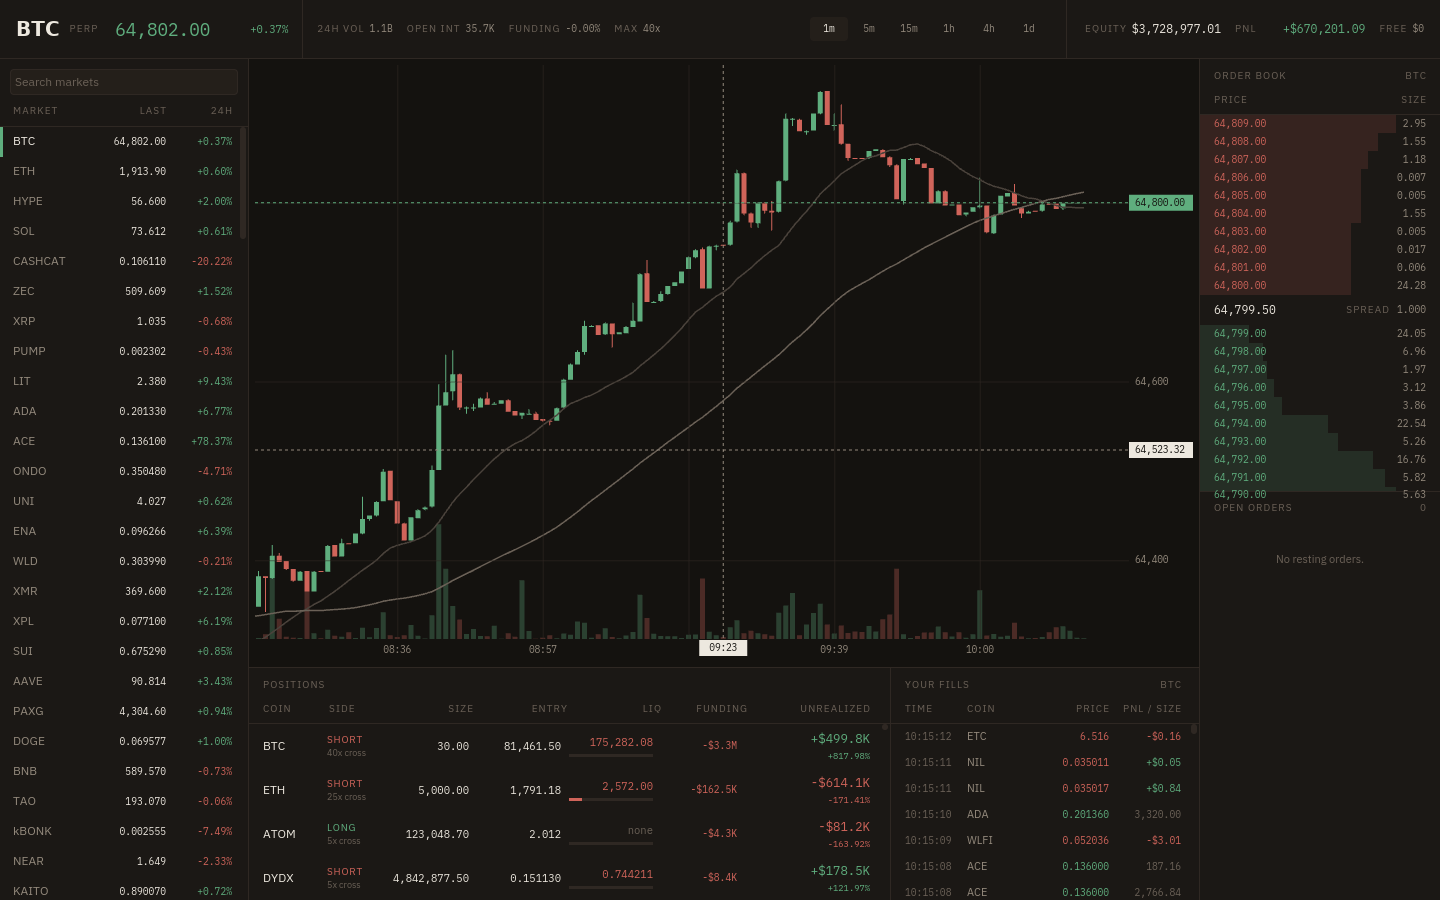
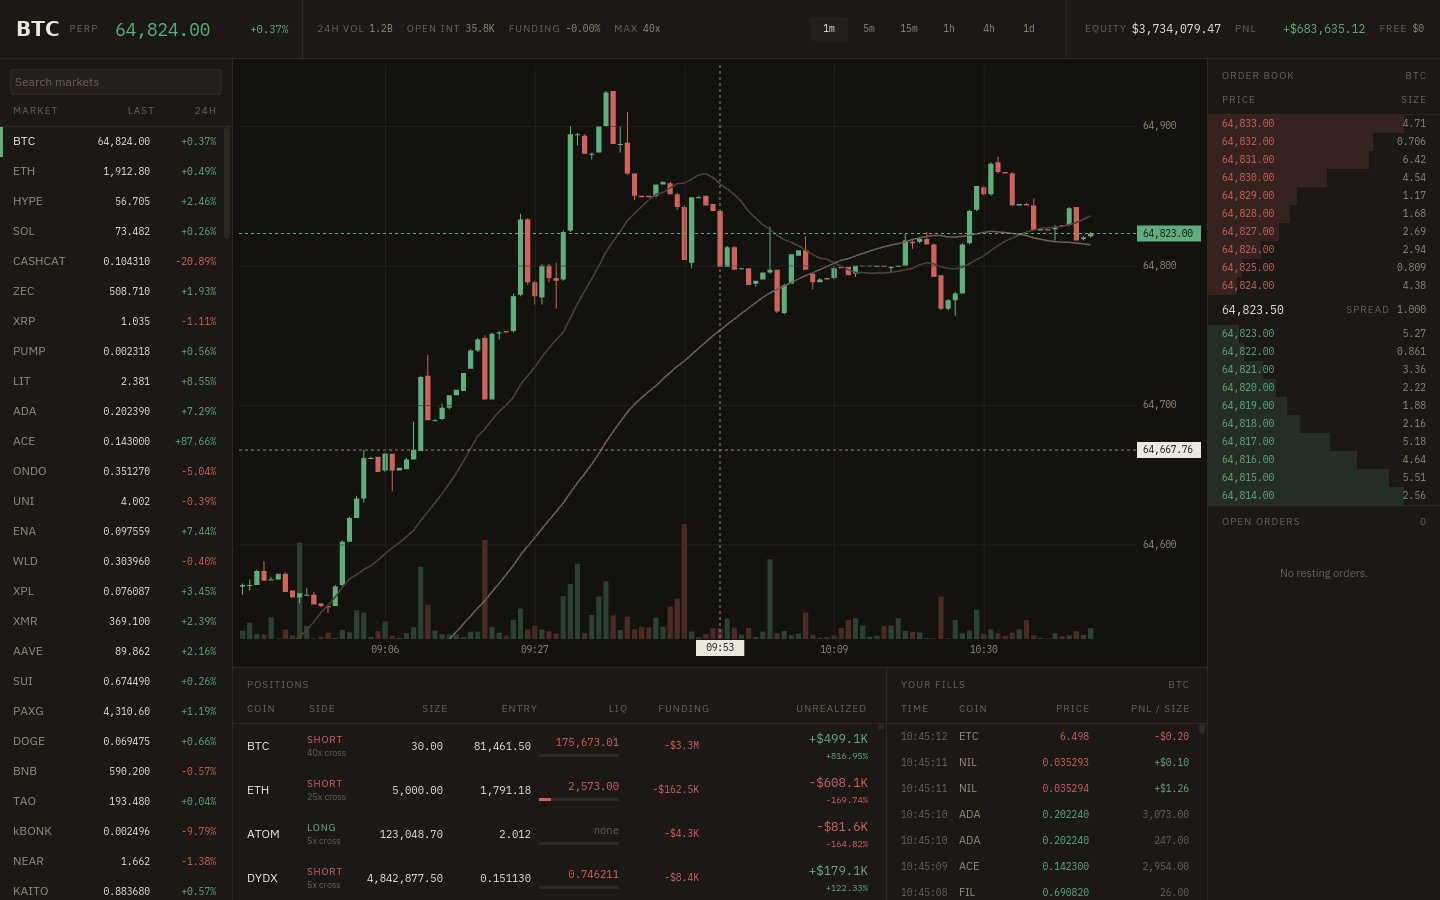
fix(trading): make every panel hold what it draws
The order book claimed the remaining height of its column, so the ten bid
rows ran under the open-orders section below them instead of ending above
it. It sizes to its rows now.

The tables were also drawn wider than the panels holding them: the fills row
overran its panel by twenty pixels and the positions row had nine to spare,
which is why the funding and unrealized columns sat against each other. Both
tables and the panels around them are re-measured with real slack.

And the declared minimum window was a size the layout could not honour — at
1120 wide the positions table lost its liquidation, funding, and unrealized
columns outright, the last of which is the reason to open the panel. The
minimum is now the width the layout actually needs.

diff --git a/examples/trading/src/hyperliquid.rs b/examples/trading/src/hyperliquid.rs
@@ -26,7 +26,7 @@ const REFRESH_BARS: i64 = 3;
 const BOOK_DEPTH: usize = 10;
 const BOOK_BAR_WIDTH: f64 = 196.0;
 /// Pixel width of the risk rail drawn under a position's liquidation price.
-const RISK_RAIL_WIDTH: f64 = 84.0;
+const RISK_RAIL_WIDTH: f64 = 80.0;
 
 fn rgb(hex: u32) -> Color {
     Color::from_rgb8(
